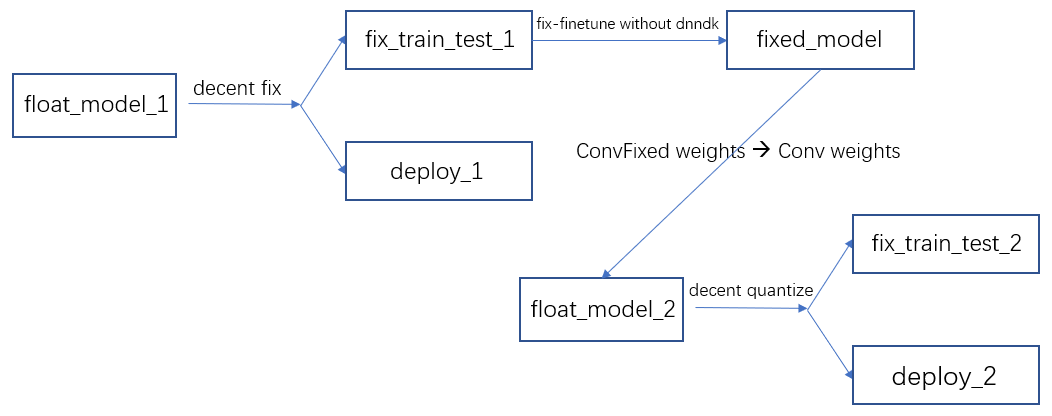
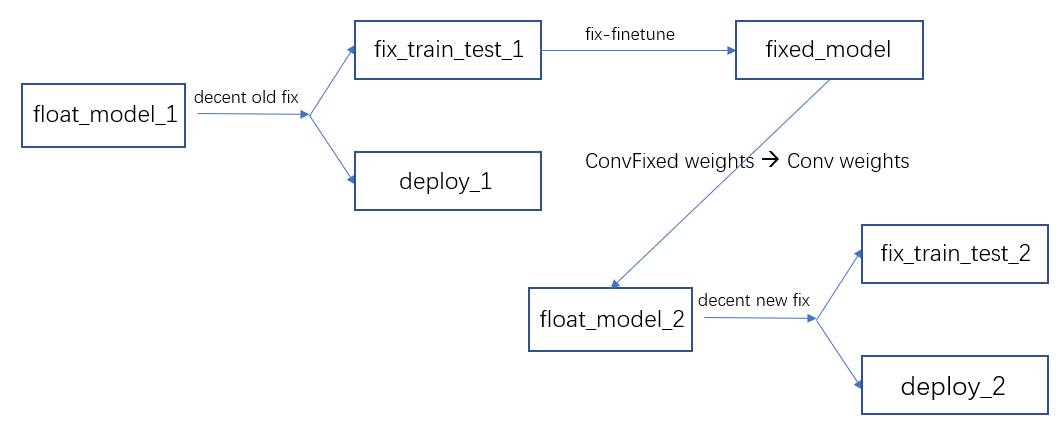
update

diff --git a/README.md b/README.md
@@ -1,4 +1,4 @@
-# DNNDK_Fix_Finetune
+# DNNDK_Fix_Finetune
 ## Install DeePhi's DNNDK
 1. Downloading DNNDK  
    DeePhi's DNNDK package could be freely downloaded after submitting registration information at DeePhi website http://www.deephi.com/technology/dnndk. The latest version v2.07 beta is publicly released in Oct. 2018.
@@ -43,7 +43,7 @@ caffemodel | float | float | float | float
 model name | float_model_2 | fix_train_test_2 | deploy_2  
 -|-|-|-
 prototxt | Convolution | ConvolutionFixed | Convolution 
-caffemodel | fixed | fixed | fixed 
+caffemodel | float (fixed) | float (fixed) | float (fixed） 
 
 Our work is based on that we have `fixed_model` now. 
 
